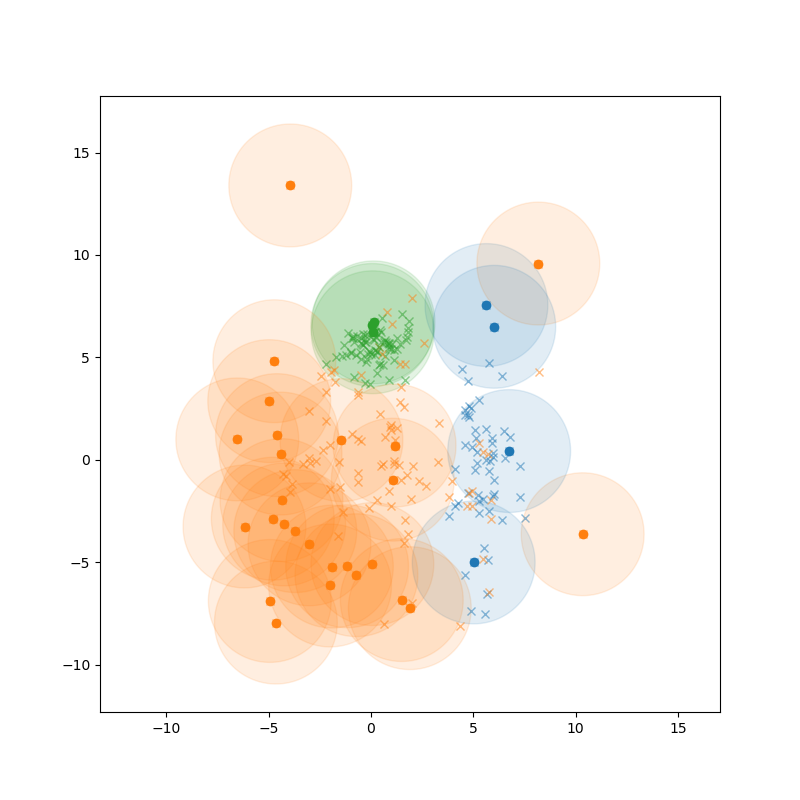
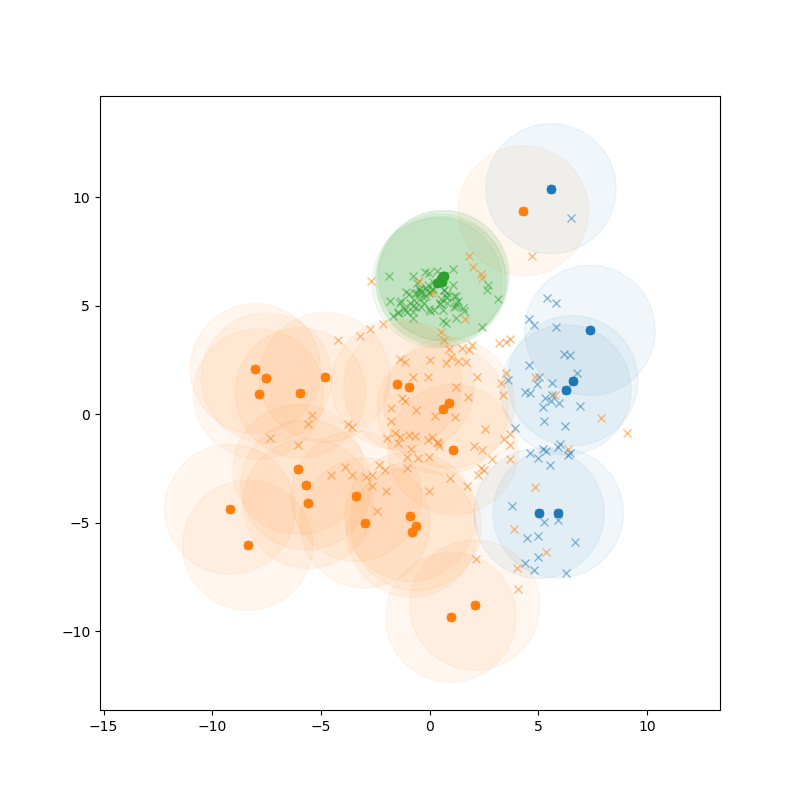
more noodling

diff --git a/classifier.py b/classifier.py
@@ -347,7 +347,7 @@ for i in range(classifierGMM.size):
 angle = np.linspace(0, 2*np.pi, num=100)
 for i in range(classifierGMM.size_proto):
     plt.plot(classifierGMM.X_proto[i][0],classifierGMM.X_proto[i][1], marker='o', c='C{}'.format(classifierGMM.y_proto[i]), alpha=1)
-    plt.fill(classifierGMM.X_proto[i][0] + classifierGMM.epsilon_*np.cos(angle), classifierGMM.X_proto[i][1] + classifierGMM.epsilon_*np.sin(angle), c='C{}'.format(classifierGMM.y_proto[i]), alpha=0.125)
+    plt.fill(classifierGMM.X_proto[i][0] + classifierGMM.epsilon_*np.cos(angle), classifierGMM.X_proto[i][1] + classifierGMM.epsilon_*np.sin(angle), c='C{}'.format(classifierGMM.y_proto[i]), alpha=0.0625)
 plt.axis('equal')
 plt.savefig('gmm.png')
 plt.show()
